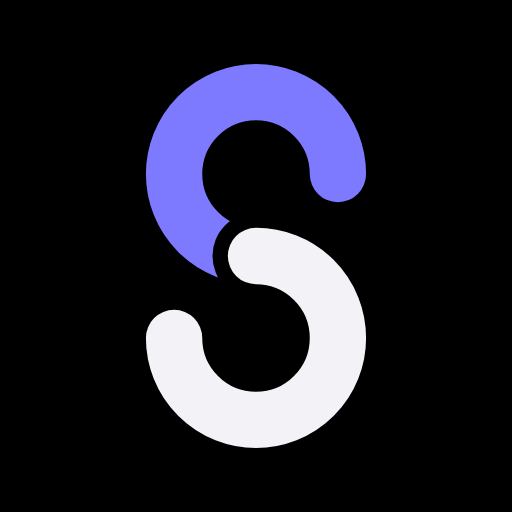
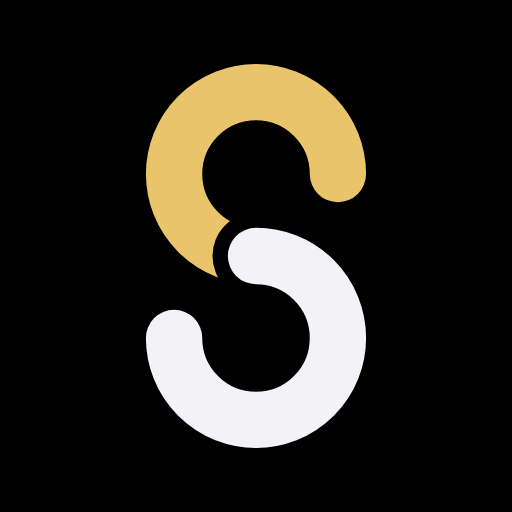
Switch brand colour to champagne gold
- Logo night arc, app tint, now hand, icons and share card use #E9C46A with black text on gold
- Chosen from five side-by-side options

Claude-Session: https://claude.ai/code/session_01BXBb2Uu2eHzKS7K7XJ4ekh

Changed region(s): [[0.2812, 0.125, 0.7188, 0.5625]]

diff --git a/components/ShiftDial.tsx b/components/ShiftDial.tsx
@@ -47,7 +47,7 @@ interface Props {
 
 /**
  * The next 24 hours on a clock face. Each shift is an arc in its employer colour,
- * the indigo hand is now. Arcs draw in once when the page loads.
+ * the gold hand is now. Arcs draw in once when the page loads.
  */
 export function ShiftDial({ shifts, employers, now, focus, centre, caption }: Props) {
   const arcs = useMemo(() => {
@@ -133,8 +133,8 @@ export function ShiftDial({ shifts, employers, now, focus, centre, caption }: Pr
           />
         ))}
         {/* now hand */}
-        <line x1={hx} y1={hy} x2={hx2} y2={hy2} stroke="#7D7AFF" strokeWidth={3} strokeLinecap="round" />
-        <circle cx={hx} cy={hy} r={3.5} fill="#7D7AFF" />
+        <line x1={hx} y1={hy} x2={hx2} y2={hy2} stroke="#E9C46A" strokeWidth={3} strokeLinecap="round" />
+        <circle cx={hx} cy={hy} r={3.5} fill="#E9C46A" />
       </svg>
       <figcaption className="absolute inset-0 flex flex-col items-center justify-center text-center">
         <span className="text-[28px] font-bold leading-none tracking-tight text-zinc-50">{centre}</span>

diff --git a/components/Logo.tsx b/components/Logo.tsx
@@ -18,7 +18,7 @@ export function LogoMark({ size = 32, tile = true, className }: { size?: number;
           <rect x="0.5" y="0.5" width="99" height="99" rx="22" fill="none" stroke="#FFFFFF" strokeOpacity="0.14" />
         </>
       )}
-      <path d="M66 34 A16 16 0 1 0 50 50" fill="none" stroke="#7D7AFF" strokeWidth="11" strokeLinecap="round" />
+      <path d="M66 34 A16 16 0 1 0 50 50" fill="none" stroke="#E9C46A" strokeWidth="11" strokeLinecap="round" />
       {/* thin cut where night crosses over day */}
       <path d="M50 50 A16 16 0 1 1 34 66" fill="none" stroke="#000" strokeWidth="17" strokeLinecap="round" />
       <path d="M50 50 A16 16 0 1 1 34 66" fill="none" stroke="#F2F2F7" strokeWidth="11" strokeLinecap="round" />

diff --git a/tailwind.config.ts b/tailwind.config.ts
@@ -36,7 +36,7 @@ const config: Config = {
         cyan: sys("#64D2FF", "#8ADDFF"), // systemCyan
         amber: sys("#FF9F0A", "#FFB340"), // pending = systemOrange
         indigo: sys("#5E5CE6", "#7D7AFF"), // systemIndigo
-        vest: { DEFAULT: "#7D7AFF", soft: "#9C9AFF", ink: "#FFFFFF" }, // app tint: indigo (systemIndigo, dark-accessible), matches the mark
+        vest: { DEFAULT: "#E9C46A", soft: "#F2D58E", ink: "#000000" }, // app tint: champagne gold, matches the mark
       },
       fontFamily: {
         sans: ["-apple-system", "BlinkMacSystemFont", '"SF Pro Text"', "Inter", "system-ui", "Segoe UI", "Roboto", "sans-serif"],
